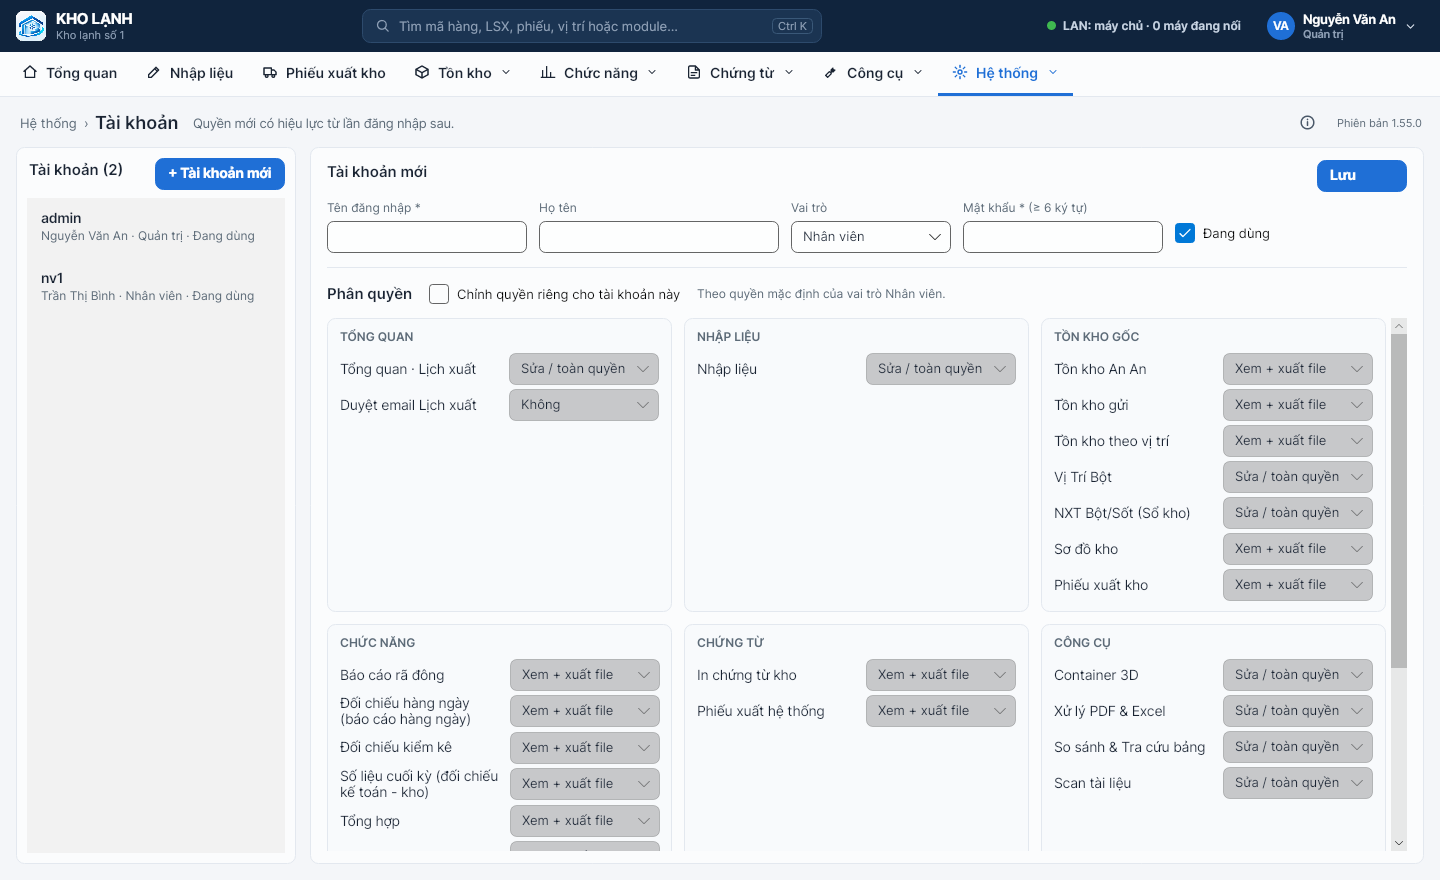
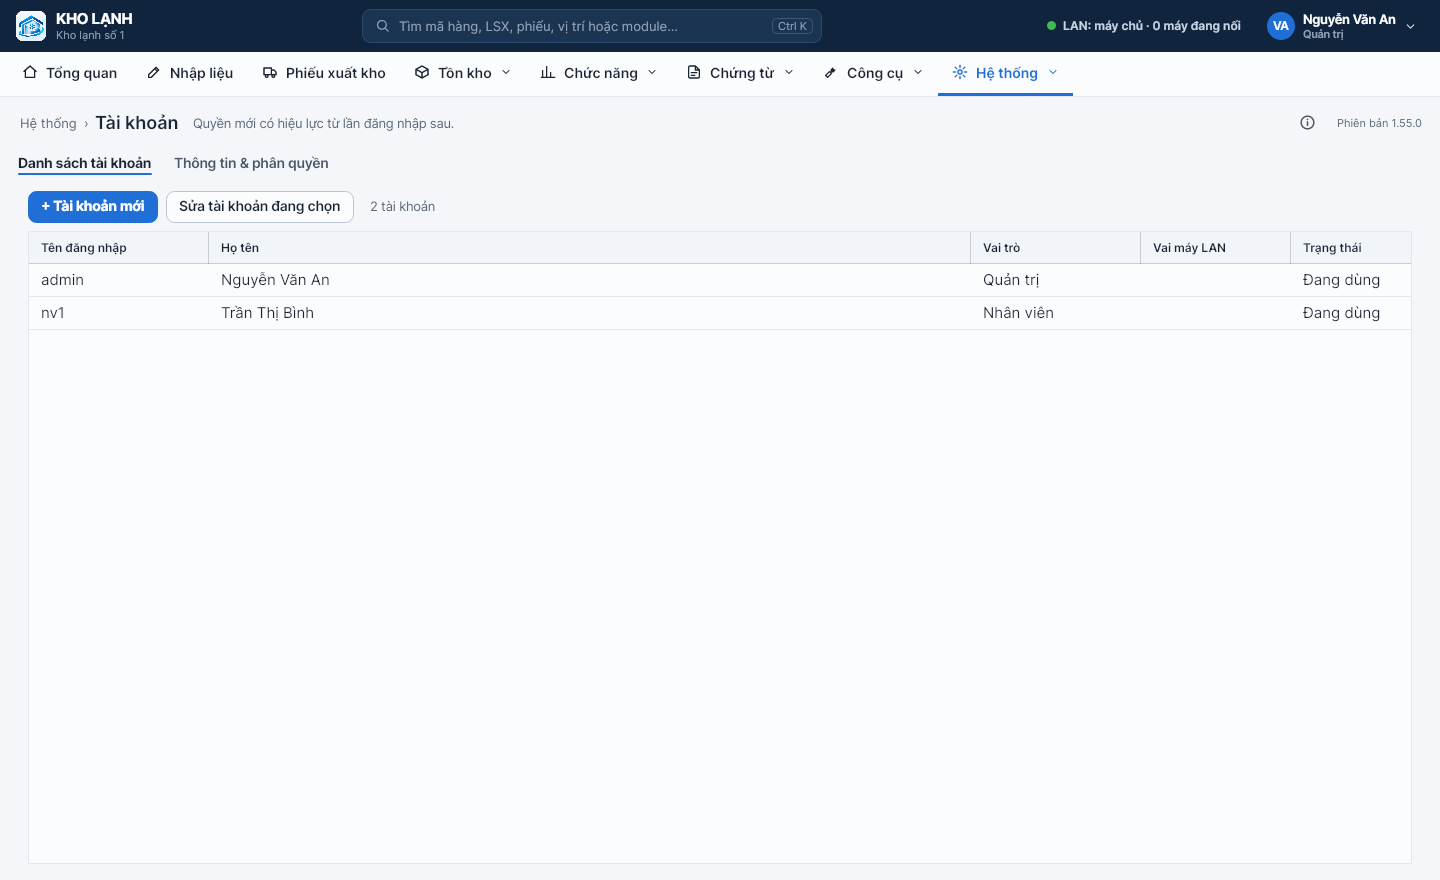
Mẫu 2 (chưa phát hành): Tài khoản 2 tab (danh sách | thông tin & phân quyền) + ô Vai máy LAN; Mạng LAN chỉ còn bật / tắt phân vai + tóm tắt
Claude-Session: https://claude.ai/code/session_01MTkPYimQvvPsXpUG8Yg2zd

diff --git a/src/KhoLanh.App/Views/UsersView.axaml.cs b/src/KhoLanh.App/Views/UsersView.axaml.cs
@@ -28,11 +28,26 @@ public partial class UsersView : UserControl, IPage
         catch { /* mất mạng: dùng bản lưu trong máy */ }
     }
 
+    /// <summary>1 dòng bảng danh sách (kèm vai máy LAN theo phân vai tài khoản).</summary>
+    public sealed record Row(User U, string LanLabel)
+    {
+        public string Username => U.Username; public string FullName => U.FullName; public string RoleLabel => U.RoleLabel; public string StatusLabel => U.StatusLabel;
+    }
+
+    private static string LanRoleOf(string user)
+    {
+        var a = App.Services.Accounts;
+        if (!a.Enabled) return "";
+        var plan = a.Plan;
+        if (plan is null) return "Máy con";
+        return KhoLanh.Core.Lan.LanService.RoleLabel(plan.RoleOf(user)) + (plan.On ? "" : " (chưa bật)");
+    }
+
     private void Load()
     {
         var list = App.Services.Auth.ListUsers();
-        List.ItemsSource = list;
-        CountText.Text = $"Tài khoản ({list.Count})";
+        List.ItemsSource = list.Select(u => new Row(u, LanRoleOf(u.Username))).ToList();
+        CountText.Text = $"{list.Count} tài khoản";
     }
 
     private void Edit(User u)
@@ -46,6 +61,13 @@ public partial class UsersView : UserControl, IPage
         PassPanel.IsVisible = isNew; PassBox.Text = "";
         ActiveBox.IsChecked = u.IsActive;
         ResetButton.IsVisible = !isNew;
+        // vai máy LAN theo tài khoản (lưu ở phân vai trên Google Sheet tài khoản dùng chung)
+        var acc = App.Services.Accounts;
+        LanPanel.IsVisible = acc.Enabled;
+        var lanRole = acc.Plan?.RoleOf(u.Username) ?? KhoLanh.Core.Lan.LanService.RoleClient;
+        LanBox.SelectedIndex = lanRole == KhoLanh.Core.Lan.LanService.RoleServer ? 1 : lanRole == KhoLanh.Core.Lan.LanService.RoleStandby ? 2 : 0;
+        ToolTip.SetTip(LanPanel, acc.Plan?.On == true ? "Máy đăng nhập bằng tài khoản này tự nhận vai này (Mạng LAN › phân vai theo tài khoản)."
+            : "Có hiệu lực khi bật “máy tự nhận vai theo tài khoản” ở Hệ thống › Mạng LAN.");
         _loading = true;
         CustomBox.IsChecked = u.Role != Roles.Admin && u.Permissions.Length > 0;
         _loading = false;
@@ -121,12 +143,12 @@ public partial class UsersView : UserControl, IPage
     private string PermissionsToSave() =>
         CustomBox.IsChecked == true && SelectedRole != Roles.Admin && CurrentBoxes() is { } m ? Perm.Serialize(m) : "";
 
-    private void OnSelect(object? sender, SelectionChangedEventArgs e)
-    {
-        if (List.SelectedItem is User u) Edit(u);
-    }
+    private void OpenSelected() { if (List.SelectedItem is Row r) { Edit(r.U); Tabs.SelectedIndex = 1; } }
+    private void OnEdit(object? sender, RoutedEventArgs e) => OpenSelected();
+    private void OnListDoubleTapped(object? sender, Avalonia.Input.TappedEventArgs e) => OpenSelected();
+    private void OnBack(object? sender, RoutedEventArgs e) => Tabs.SelectedIndex = 0;
 
-    private void OnNew(object? sender, RoutedEventArgs e) { List.SelectedItem = null; Edit(new User()); UserBox.Focus(); }
+    private void OnNew(object? sender, RoutedEventArgs e) { List.SelectedItem = null; Edit(new User()); Tabs.SelectedIndex = 1; UserBox.Focus(); }
 
     /// <summary>
     /// Dùng chung tài khoản mà máy chưa mở khóa ghi → hỏi mật khẩu Quản trị (hoặc mã cho máy quản trị) để mở ngay, thay vì chỉ báo lỗi.
@@ -165,7 +187,19 @@ public partial class UsersView : UserControl, IPage
                 App.Services.Auth.SetPermissions(editing.Id, perms);
             }
         }));
-        if (ok) { Load(); Edit(new User()); }
+        if (ok && App.Services.Accounts.Enabled)
+        {
+            var want = (LanBox.SelectedItem as ComboBoxItem)?.Tag as string ?? "client";
+            var lan = want == "server" ? KhoLanh.Core.Lan.LanService.RoleServer : want == "standby" ? KhoLanh.Core.Lan.LanService.RoleStandby : KhoLanh.Core.Lan.LanService.RoleClient;
+            var cur = App.Services.Accounts.Plan?.RoleOf(user) ?? KhoLanh.Core.Lan.LanService.RoleClient;
+            if (cur != lan)
+                ok = await Ui.RunAsync(this, async () => await App.Services.Accounts.UpdatePlanAsync(p =>
+                {
+                    if (lan == KhoLanh.Core.Lan.LanService.RoleClient) p.Vai.Remove(user); else p.Vai[user] = lan;
+                    return true;
+                }));
+        }
+        if (ok) { Load(); Tabs.SelectedIndex = 0; Edit(new User()); }
     }
 
     private async void OnReset(object? sender, RoutedEventArgs e)

diff --git a/src/KhoLanh.App/Views/LanView.axaml.cs b/src/KhoLanh.App/Views/LanView.axaml.cs
@@ -80,22 +80,18 @@ public partial class LanView : UserControl, IPage
             return;
         }
         AutoOn.IsChecked = plan.On;
-        var anyAssigned = plan.Vai.Count > 0;
-        foreach (var u in s.Auth.ListUsers().Where(u => u.IsActive).OrderBy(u => u.Role == Core.Models.Roles.Admin ? 0 : u.Role == Core.Models.Roles.Manager ? 1 : 2).ThenBy(u => u.Username))
+        // 1.56: vai từng tài khoản gán ở Hệ thống › Tài khoản (ô "Vai máy LAN"); ở đây chỉ hiện tóm tắt
+        var assigned = s.Auth.ListUsers().Where(u => u.IsActive && plan.RoleOf(u.Username) != LanService.RoleClient)
+            .Select(u => $"{u.Username} — {LanService.RoleLabel(plan.RoleOf(u.Username))}").ToList();
+        AutoRows.Children.Add(new TextBlock
         {
-            var role = anyAssigned ? plan.RoleOf(u.Username) : u.Username == s.Session.Username ? LanService.RoleServer : LanService.RoleClient;
-            var box = new ComboBox { ItemsSource = AutoChoices.Select(c => c.Label).ToList(), Width = 150, SelectedIndex = Array.FindIndex(AutoChoices, c => c.Role == role) };
-            var row = new DockPanel();
-            DockPanel.SetDock(box, Avalonia.Controls.Dock.Right);
-            row.Children.Add(box);
-            row.Children.Add(new TextBlock
-            {
-                Text = $"{u.Username} — {u.FullName} ({Core.Models.Roles.Label(u.Role)})", VerticalAlignment = Avalonia.Layout.VerticalAlignment.Center,
-                TextTrimming = Avalonia.Media.TextTrimming.CharacterEllipsis,
-            });
-            AutoRows.Children.Add(row);
-            _autoBoxes.Add((u.Username, box));
-        }
+            Text = (assigned.Count == 0 ? "Chưa gán tài khoản nào làm máy chủ / dự phòng (mọi tài khoản = máy con)." : "Đã gán: " + string.Join(" · ", assigned))
+                   + "\nGán vai cho từng tài khoản ở Hệ thống › Tài khoản (ô Vai máy LAN).",
+            TextWrapping = Avalonia.Media.TextWrapping.Wrap, FontSize = 12.5, Tag = "keep",
+        });
+        var open = new Button { Content = "Mở Tài khoản" };
+        open.Click += (_, _) => MainWindow.Of(this)?.Navigate("users");
+        AutoRows.Children.Add(open);
         var canWrite = s.Accounts.CanWrite;
         AutoOn.IsEnabled = AutoSaveButton.IsEnabled = canWrite;
         ClaimButton.IsEnabled = canWrite && plan.On && !(plan.Chu?.Id == s.Lan.MachineId && s.Lan.Role == LanService.RoleServer);
@@ -125,9 +121,9 @@ public partial class LanView : UserControl, IPage
     {
         var s = App.Services;
         var on = AutoOn.IsChecked == true;
-        var vai = _autoBoxes.Where(x => x.Box.SelectedIndex > 0).ToDictionary(x => x.User, x => AutoChoices[x.Box.SelectedIndex].Role, StringComparer.OrdinalIgnoreCase);
+        var vai = new Dictionary<string, string>(s.Accounts.Plan?.Vai ?? new Dictionary<string, string>(), StringComparer.OrdinalIgnoreCase);
         if (on && !vai.ContainsValue(LanService.RoleServer) && (s.Accounts.Plan?.Chu is null))
-        { await Ui.Message(this, "Chưa có tài khoản nào được gán Máy chủ chính và chưa có máy chủ — gán cho tài khoản Quản trị của máy chủ."); return; }
+        { await Ui.Message(this, "Chưa có tài khoản nào được gán Máy chủ chính và chưa có máy chủ — vào Hệ thống › Tài khoản, chọn tài khoản Quản trị của máy chủ, đặt Vai máy LAN = Máy chủ chính."); return; }
         LanPlan? plan = null;
         if (!await Ui.RunAsync(this, async () => plan = await s.Accounts.UpdatePlanAsync(p =>
             {

diff --git a/tools/Screenshots/Program.cs b/tools/Screenshots/Program.cs
@@ -501,7 +501,15 @@ small.Close();
 if (Environment.GetEnvironmentVariable("SHOTS_ONLY") == "he")
 {
     foreach (var (k, n) in new[] { ("users", "he-tai-khoan"), ("backup", "he-sao-luu"), ("lan", "he-mang-lan"), ("drive", "he-drive"), ("phone", "he-dien-thoai"), ("audit", "he-nhat-ky"), ("troly", "he-tro-ly") })
-    { main.Navigate(k); for (var i = 0; i < 40; i++) { Thread.Sleep(30); Pump(); } Snap(main, n); }
+    {
+        main.Navigate(k); for (var i = 0; i < 40; i++) { Thread.Sleep(30); Pump(); } Snap(main, n);
+        if (k is "users" or "lan")
+        {
+            var tc = main.PageHost.GetVisualDescendants().OfType<TabControl>().First();
+            if (k == "users") main.PageHost.GetVisualDescendants().OfType<DataGrid>().First().SelectedIndex = 1;
+            tc.SelectedIndex = 1; for (var i = 0; i < 20; i++) { Thread.Sleep(30); Pump(); } Snap(main, n + "-2");
+        }
+    }
     s.Lan.Dispose(); Console.WriteLine("Xong (he): " + outDir); return;
 }
 if (Environment.GetEnvironmentVariable("SHOTS_ONLY") == "ui")
